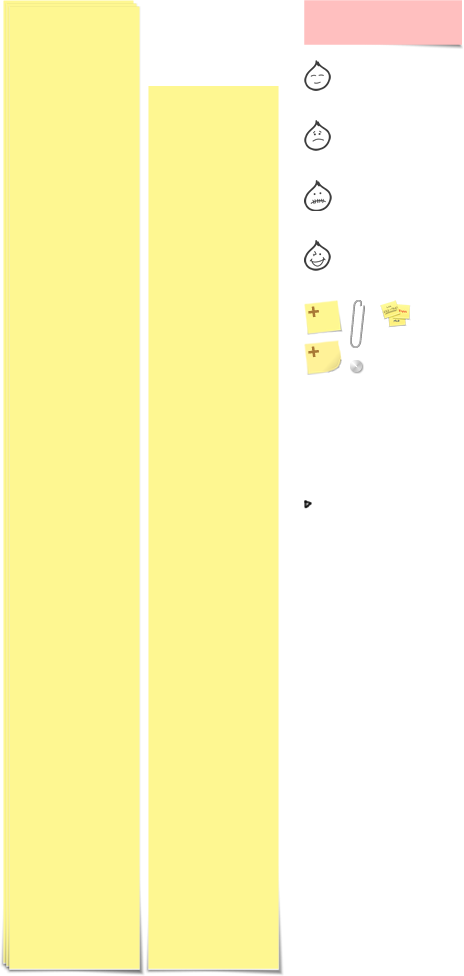
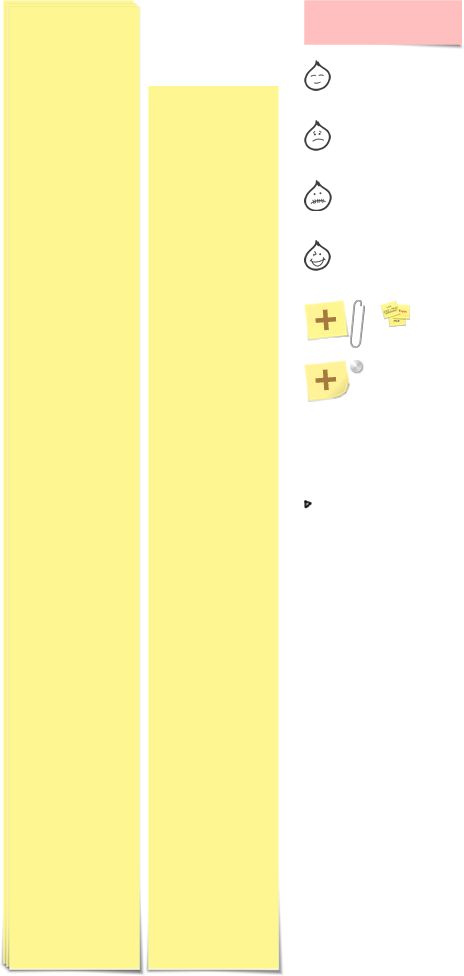
ui refine

Changed region(s): [[0.6336, 0.3074, 0.7543, 0.4303]]

diff --git a/public/javascripts/sticker.js b/public/javascripts/sticker.js
@@ -25,7 +25,7 @@
     
     StickerView = Backbone.View.extend({
         className: "sticker sticker-single",
-        template: _.template('<div class="sticker-header"><div class="sticker-vote btn btn-success"><i class="icon-thumbs-up icon-white"></i> Vote</div><!--a class="sticker-action-btn btn btn-primary" data-original-title="What action shall we take?" data-type="text"><i class="icon-ok-sign icon-white"></i> Action</a--><span class="like-count badge badge-success"><%=voteCount%></span></div><div class="sticker-body"><%=content%></div><div class="sticker-action-group"><!--div class="sticker-action">this is an action</div></div-->'),
+        template: _.template('<div class="sticker-header"><div class="sticker-vote btn btn-success"><i class="icon-thumbs-up icon-white"></i><span class="like-count"><%=voteCount%></span></div><!--a class="sticker-action-btn btn btn-primary" data-original-title="What action shall we take?" data-type="text"><i class="icon-ok-sign icon-white"></i> Action</a--></div><div class="sticker-body"><%=content%></div><div class="sticker-action-group"><!--div class="sticker-action">this is an action</div></div-->'),
         
         events: {
             'click .sticker-vote': 'vote',
@@ -102,7 +102,7 @@
     StickerGroupView = Backbone.View.extend({
         className: "sticker sticker-multi",
         
-        template: _.template('<div class="sticker-header"><s></s><div class="sticker-vote btn btn-success"><i class="icon-thumbs-up icon-white"></i> Vote</div><!--a class="sticker-action-btn btn btn-primary" data-original-title="What action shall we take?" data-type="text"><i class="icon-ok-sign icon-white"></i> Action</a--><span class="like-count badge badge-success"><%=voteCount%></span></div><div class="sticker-body"></div><!--div class="sticker-action-group"><div class="sticker-action">this is an action<br>this is an action<br>this is an action<br>this is an action<br>this is an action<br>this is an action<br></div></div-->'),
+        template: _.template('<div class="sticker-header"><s></s><div class="sticker-vote btn btn-success"><i class="icon-thumbs-up icon-white"></i><span class="like-count"><%=voteCount%></span></div><!--a class="sticker-action-btn btn btn-primary" data-original-title="What action shall we take?" data-type="text"><i class="icon-ok-sign icon-white"></i> Action</a--></div><div class="sticker-body"></div><!--div class="sticker-action-group"><div class="sticker-action">this is an action<br>this is an action<br>this is an action<br>this is an action<br>this is an action<br>this is an action<br></div></div-->'),
         eachTemplate: _.template('<span><%=content%></span>'),
         
         events: {

diff --git a/public/stylesheets/board.css b/public/stylesheets/board.css
@@ -47,19 +47,19 @@ body {
 #Idea .section-header h3 { background: url(../images/combo.png) no-repeat -304px -240px; }
 
 .add-sticker {
-    height: 40px;
-    width: 40px;
+    height: 46px;
+    width: 46px;
     display: block;
     background-image: url(../images/combo.png);
     background-position: -304px -300px;
     cursor: pointer;
     position: absolute;
-    top: 10px;
-    right: 15px;
+    top: 5px;
+    left: 145px;
 }
 
 .add-sticker:hover {
-    background-position: -304px -340px;
+    background-position: -304px -360px;
 }
 
 .section-body {
@@ -110,12 +110,13 @@ body {
     padding: 1px 5px;
     font-size: 12px;
     box-shadow: 0 1px 0 rgba(255, 255, 255, 0.2) inset, 0 1px 2px rgba(0, 0, 0, 0.4);
-    display: none;
+    display: inline-block;
 }
 
 .sticker .sticker-header .sticker-vote {
     top: -5px;
-    left: -3px;
+    right: -5px;
+    line-height: 20px;
 }
 
 .sticker .sticker-header .sticker-action-btn {
@@ -129,10 +130,9 @@ body {
 
 
 .sticker .sticker-header .like-count {
-    position: absolute;
-    top: -5px;
-    left: 123px;
-    box-shadow: 0 1px 0 rgba(255, 255, 255, 0.2) inset, 0 1px 2px rgba(0, 0, 0, 0.5);
+    padding-left: 2px;
+    font-size: 14px;
+    color: #fff;
 }
 
 .sticker-single .sticker-body {
